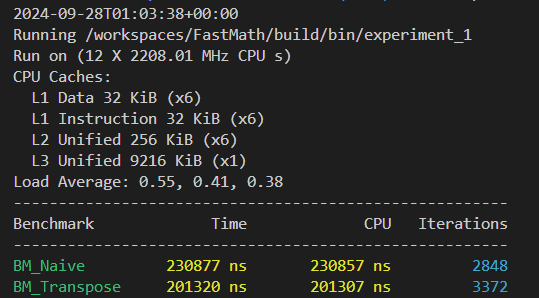
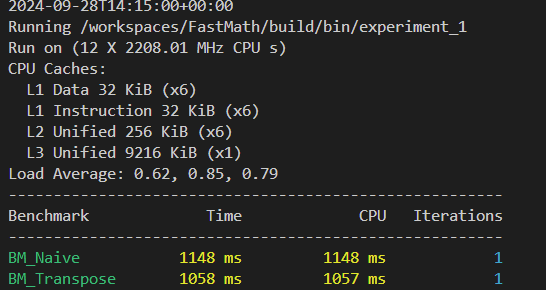
Add OpenMP

diff --git a/src/algorithms/gemm.cpp b/src/algorithms/gemm.cpp
@@ -20,6 +20,9 @@ void gemm_naive(const utils::Matrix<fp>& a, const utils::Matrix<fp>& b,
                 utils::Matrix<fp>& c) {
   assert_matrix_dimensions(a, b, c);
 
+#ifdef _OPENMP
+#pragma omp parallel for
+#endif
   for (size_t i = 0; i < a.get_row_size(); ++i) {
     for (size_t j = 0; j < b.get_col_size(); ++j) {
       c.at(i, j) = static_cast<algorithms::fp>(0);
@@ -38,6 +41,9 @@ void gemm_transpose(const utils::Matrix<fp>& a, const utils::Matrix<fp>& b,
   static utils::Matrix<fp> b_copy(b.get_col_size(), b.get_row_size());
   b.transpose_to(b_copy);
 
+#ifdef _OPENMP
+#pragma omp parallel for
+#endif
   for (size_t i = 0; i < a.get_row_size(); ++i) {
     for (size_t j = 0; j < b.get_col_size(); ++j) {
       c.at(i, j) = static_cast<algorithms::fp>(0);

diff --git a/src/experiments/experiment_1/main.cpp b/src/experiments/experiment_1/main.cpp
@@ -8,9 +8,9 @@
 
 using Matrix = utils::Matrix<algorithms::fp>;
 
-constexpr size_t n1 = 50ul;
-constexpr size_t n2 = 60ul;
-constexpr size_t n3 = 90ul;
+constexpr size_t n1 = 1000ul;
+constexpr size_t n2 = 1000ul;
+constexpr size_t n3 = 1000ul;
 
 struct BM_Data {
   BM_Data() : a(n1, n2), b(n2, n3), c(n1, n3) {
@@ -43,8 +43,14 @@ static void BM_Transpose(benchmark::State& state) {
   }
 }
 
-BENCHMARK(BM_Naive);
+constexpr int32_t number_of_iterations = 3;
 
-BENCHMARK(BM_Transpose);
+BENCHMARK(BM_Naive)
+    ->Unit(benchmark::kMillisecond)
+    ->Iterations(number_of_iterations);
+
+BENCHMARK(BM_Transpose)
+    ->Unit(benchmark::kMillisecond)
+    ->Iterations(number_of_iterations);
 
 BENCHMARK_MAIN();

diff --git a/include/matrix.hpp b/include/matrix.hpp
@@ -61,6 +61,9 @@ class Matrix {
     size_t row_size_temp = _row_size;
     size_t col_size_temp = _col_size;
     std::swap(_row_size, _col_size);
+#ifdef _OPENMP
+#pragma omp parallel for
+#endif
     for (size_t j = 0; j < col_size_temp; ++j) {
       for (size_t i = 0; i < row_size_temp; ++i) {
         this->at(j, i) = temp.at(i, j);
@@ -69,6 +72,9 @@ class Matrix {
   }
 
   void transpose_to(Matrix& dest) const {
+#ifdef _OPENMP
+#pragma omp parallel for
+#endif
     for (size_t j = 0; j < _col_size; ++j) {
       for (size_t i = 0; i < _row_size; ++i) {
         dest.at(j, i) = this->at(i, j);

diff --git a/src/experiments/experiment_1/README.md b/src/experiments/experiment_1/README.md
@@ -20,5 +20,11 @@ Theoretically given the large $n$ this algorithm will become compute bounded.
 
 Naive Gemm implementation loops through rows and columns and calculates given sum. Implementation can be found [here](../../algorithms/gemm.cpp#19). Problem with this implementation is that retrieving values from cache is not optimized. For matrix $a$ cache value retrieval is fine since inner matrix memory is organized in per row basis. But for matrix $b$ values are fetched column by column so CPU needs to jump between memory adresses that are not close to each other. By transposing second matrix we get faster fatching and faster computation even though we have more computation to do (since we first need to transpose the matrix). Implementation can be found [here](../../algorithms/gemm.cpp#34). Static memory is used in order to avoid memory initialization every time. 
 
+Without OpenMP:
+
 ![alt text](image.png)
+
+With OpenMP:
+
+![alt text](image-1.png)
 
